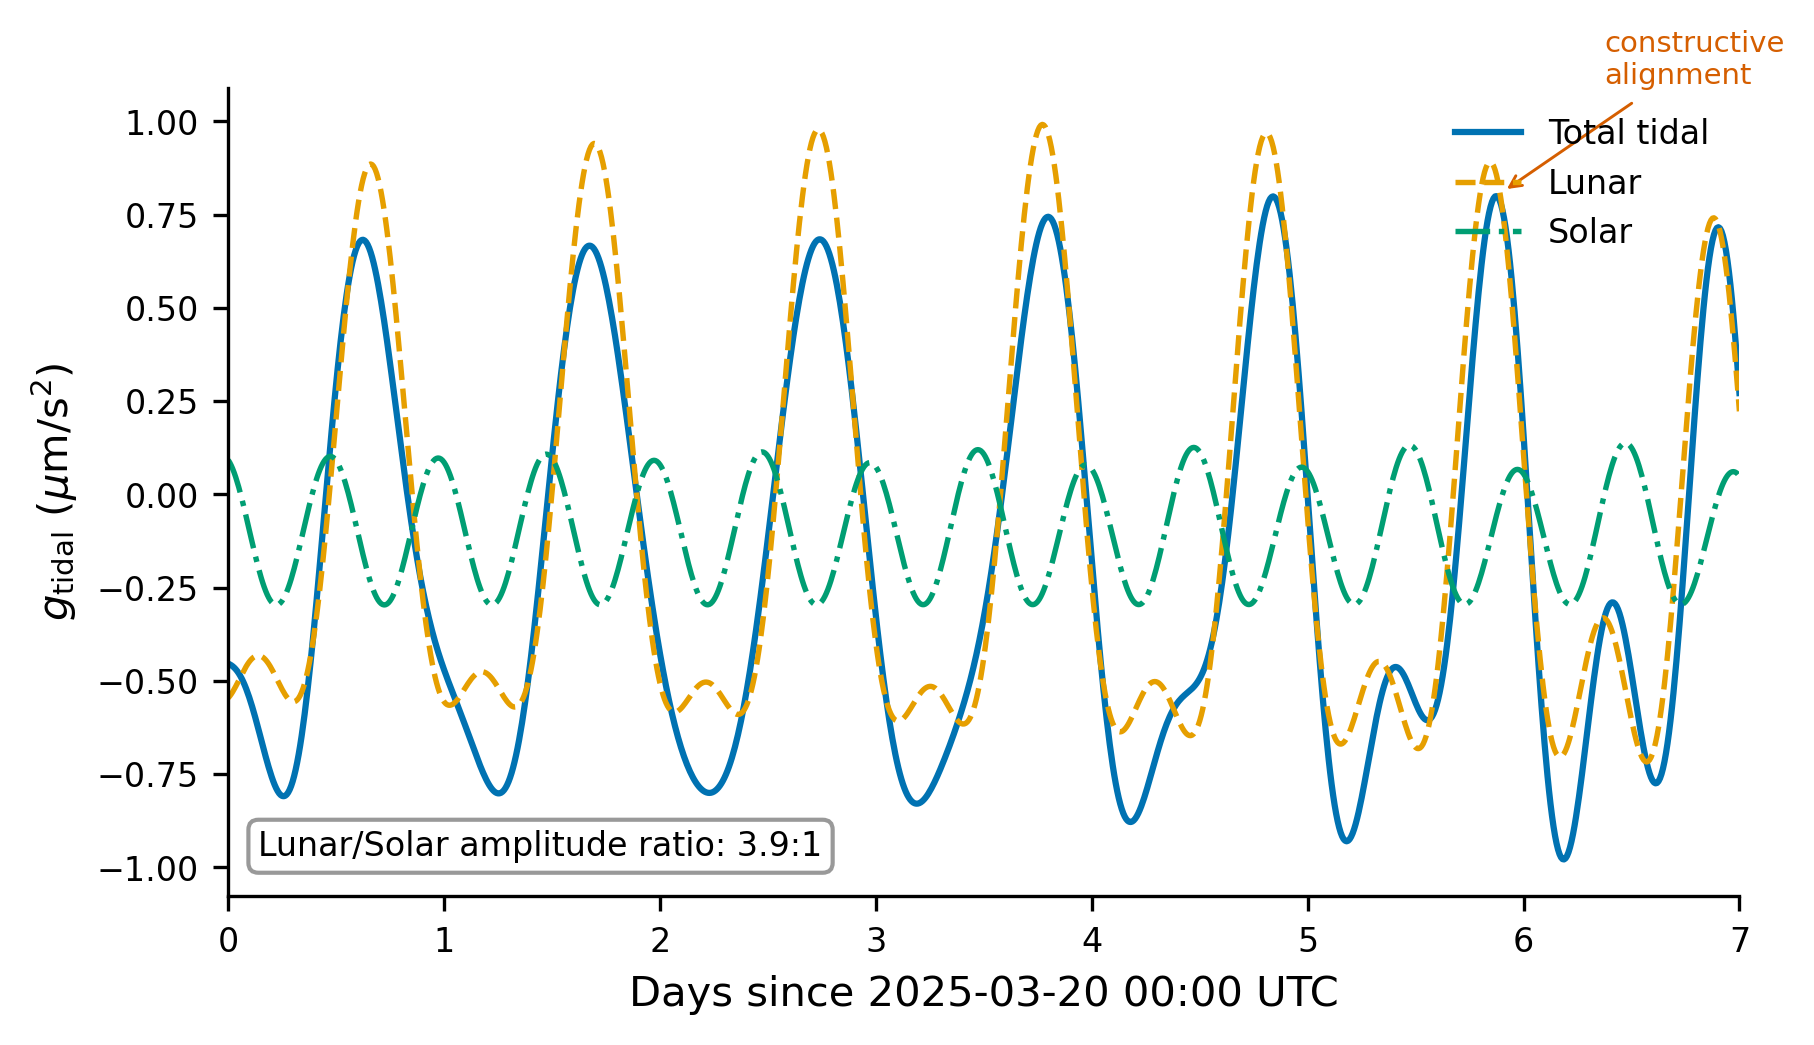
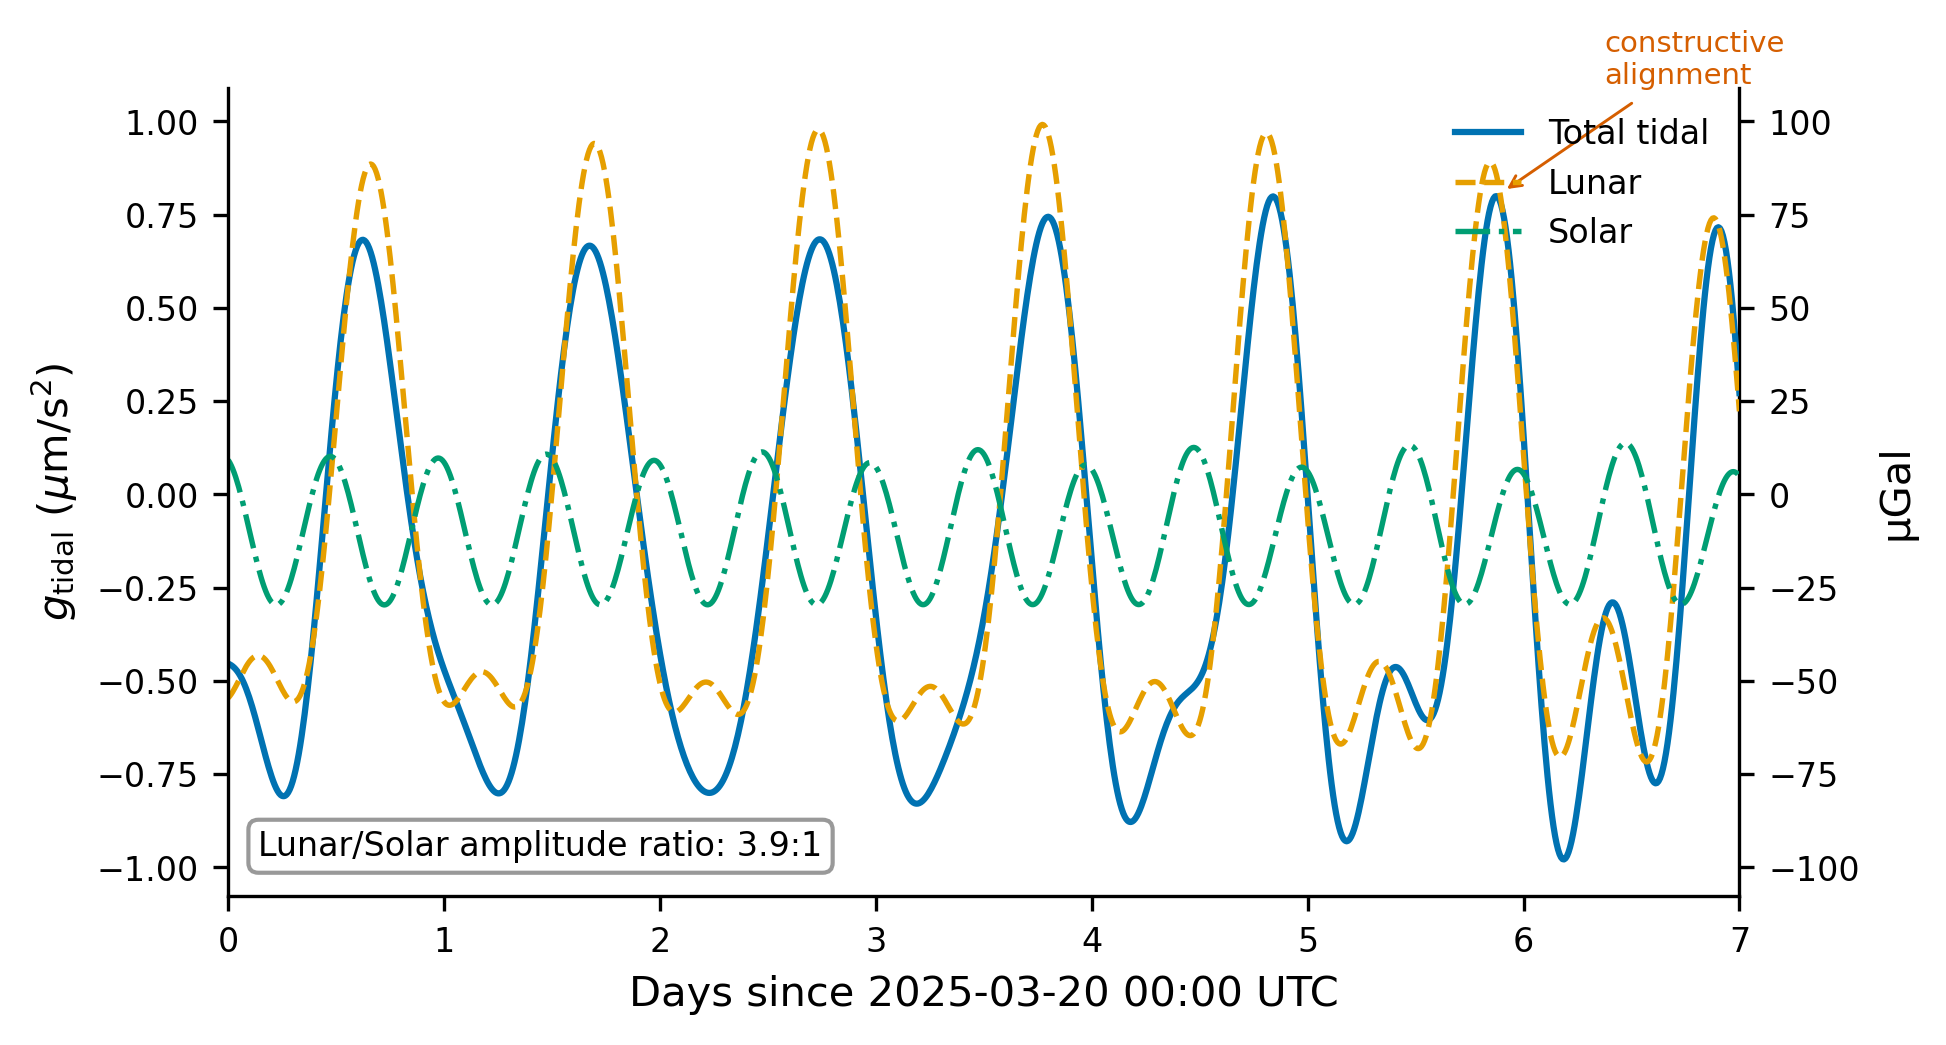
Add dual-axis labels to all gravity figures
Every gravity axis now displays both SI and Gal-family units via a
secondary axis (e.g., µm/s² on left, µGal on right). Adds
add_dual_axis() helper to style.py and applies it to all 10 figure
scripts that plot gravity data. Regenerated all PNGs.

diff --git a/doc/figures/style.py b/doc/figures/style.py
@@ -39,3 +39,47 @@ def apply_style():
         'ytick.major.width': 0.8,
         'figure.figsize': (6, 3.5),
     })
+
+
+# Dual-unit conversion table: primary_unit -> (dual_label, factor)
+# where dual_value = primary_value * factor
+_DUAL_UNITS = {
+    'm/s²':  ('Gal',    100),
+    'µm/s²': ('µGal',   100),
+    'mGal':  ('µm/s²',  10),
+    'µGal':  ('nm/s²',  10),
+    'nGal':  ('nm/s²',  0.01),
+}
+
+
+def add_dual_axis(ax, primary_unit, direction='y'):
+    """Add a secondary axis showing the equivalent gravity unit.
+
+    Parameters
+    ----------
+    ax : matplotlib.axes.Axes
+        The axes object that already has the primary unit.
+    primary_unit : str
+        One of 'm/s²', 'µm/s²', 'mGal', 'µGal', 'nGal'.
+    direction : str
+        'y' adds a right-hand axis; 'x' adds a top axis.
+    """
+    dual_label, factor = _DUAL_UNITS[primary_unit]
+
+    if direction == 'y':
+        sec = ax.secondary_yaxis(
+            'right',
+            functions=(lambda v: v * factor, lambda v: v / factor),
+        )
+        sec.set_ylabel(dual_label)
+        sec.spines['right'].set_visible(True)
+    else:
+        sec = ax.secondary_xaxis(
+            'top',
+            functions=(lambda v: v * factor, lambda v: v / factor),
+        )
+        sec.set_xlabel(dual_label)
+        sec.spines['top'].set_visible(True)
+
+    sec.tick_params(labelsize=8)
+    return sec

diff --git a/doc/figures/fig05_free_air.py b/doc/figures/fig05_free_air.py
@@ -14,7 +14,7 @@ import matplotlib.pyplot as plt
 
 import pytheas
 from pytheas import A_GRS80, F_GRS80, OMEGA, GM_E, B_GRS80
-from style import apply_style, COLORS
+from style import apply_style, COLORS, add_dual_axis
 
 apply_style()
 
@@ -82,6 +82,9 @@ ax_inset.annotate(f"{val_1km:.1f} $\\mu$Gal\nat 1 km",
                   fontsize=7, color=COLORS["navy"],
                   arrowprops=dict(arrowstyle="->", color=COLORS["navy"],
                                   lw=0.7, shrinkB=3))
+
+add_dual_axis(ax_main, 'mGal')
+add_dual_axis(ax_inset, 'µGal')
 
 fig.savefig("/home/xeal/dev/pytheas/doc/figures/fig05_free_air.png")
 plt.close(fig)

diff --git a/doc/figures/fig11_rigid_vs_elastic.py b/doc/figures/fig11_rigid_vs_elastic.py
@@ -20,7 +20,7 @@ from pytheas import (
     geodetic_to_ecef, moon_position_ecef, sun_position_ecef,
     tidal_acceleration, enu_basis, compute_timeseries,
 )
-from style import apply_style, COLORS
+from style import apply_style, COLORS, add_dual_axis
 
 apply_style()
 
@@ -82,6 +82,8 @@ ax.set_ylabel(r"Total tidal $g_z$ ($\mu$m/s$^2$)")
 ax.legend(loc="upper right", frameon=False)
 ax.set_xlim(0, 48)
 ax.axhline(0, color="grey", linewidth=0.4, linestyle="-")
+
+add_dual_axis(ax, 'µm/s²')
 
 fig.savefig("/home/xeal/dev/pytheas/doc/figures/fig11_rigid_vs_elastic.png")
 plt.close(fig)

diff --git a/doc/figures/fig13_error_budget.py b/doc/figures/fig13_error_budget.py
@@ -12,7 +12,7 @@ sys.path.insert(0, "/home/xeal/dev/pytheas")
 import numpy as np
 import matplotlib.pyplot as plt
 from matplotlib.patches import Patch
-from style import apply_style, COLORS
+from style import apply_style, COLORS, add_dual_axis
 
 apply_style()
 
@@ -80,6 +80,8 @@ ax.text(0.98, 0.98,
         style="italic", color="0.4",
         bbox=dict(boxstyle="round,pad=0.3", facecolor="0.95",
                   edgecolor="0.8", linewidth=0.5))
+
+add_dual_axis(ax, 'nGal', direction='x')
 
 fig.savefig("/home/xeal/dev/pytheas/doc/figures/fig13_error_budget.png")
 plt.close(fig)

diff --git a/doc/figures/fig06_lunar_distance_tides.py b/doc/figures/fig06_lunar_distance_tides.py
@@ -15,7 +15,7 @@ import numpy as np
 from datetime import datetime, timedelta
 import matplotlib.pyplot as plt
 import matplotlib.dates as mdates
-from style import apply_style, COLORS
+from style import apply_style, COLORS, add_dual_axis
 
 apply_style()
 
@@ -91,6 +91,8 @@ fig.autofmt_xdate(rotation=30, ha='right')
 # Thousands separator on y-axis of panel (a)
 ax1.yaxis.set_major_formatter(plt.FuncFormatter(
     lambda x, _: f"{x:,.0f}"))
+
+add_dual_axis(ax2, 'µm/s²')
 
 plt.savefig("/home/xeal/dev/pytheas/doc/figures/fig06_lunar_distance_tides.png")
 plt.close()

diff --git a/doc/figures/fig10_exact_vs_approx.py b/doc/figures/fig10_exact_vs_approx.py
@@ -20,7 +20,7 @@ from pytheas import (
     GM_MOON, geodetic_to_ecef, moon_position_ecef,
     tidal_acceleration, enu_basis,
 )
-from style import apply_style, COLORS
+from style import apply_style, COLORS, add_dual_axis
 
 apply_style()
 
@@ -129,6 +129,9 @@ ax_bot.text(0.02, 0.92, r"$\mathbf{(b)}$", transform=ax_bot.transAxes,
             fontsize=10, fontweight="bold", va="top")
 
 ax_bot.set_xlim(0, 24)
+
+add_dual_axis(ax_top, 'µm/s²')
+add_dual_axis(ax_bot, 'nGal')
 
 fig.savefig("/home/xeal/dev/pytheas/doc/figures/fig10_exact_vs_approx.png")
 plt.close(fig)

diff --git a/doc/figures/fig04_gravity_vs_latitude.py b/doc/figures/fig04_gravity_vs_latitude.py
@@ -15,7 +15,7 @@ import numpy as np
 import matplotlib.pyplot as plt
 
 import pytheas
-from style import apply_style, COLORS
+from style import apply_style, COLORS, add_dual_axis
 
 apply_style()
 
@@ -67,6 +67,8 @@ ax.annotate(f"{pole_grs:.4f}",
             fontsize=7.5, color=COLORS["navy"],
             arrowprops=dict(arrowstyle="-", color=COLORS["navy"],
                             lw=0.6, shrinkB=2))
+
+add_dual_axis(ax, 'm/s²')
 
 fig.savefig("/home/xeal/dev/pytheas/doc/figures/fig04_gravity_vs_latitude.png")
 plt.close(fig)

diff --git a/doc/figures/fig14_gr_corrections.py b/doc/figures/fig14_gr_corrections.py
@@ -13,7 +13,7 @@ sys.path.insert(0, "/home/xeal/dev/pytheas")
 import numpy as np
 import matplotlib.pyplot as plt
 from matplotlib.patches import Patch
-from style import apply_style, COLORS
+from style import apply_style, COLORS, add_dual_axis
 
 apply_style()
 
@@ -113,6 +113,8 @@ legend_elements = [
 ]
 ax.legend(handles=legend_elements, loc="lower right", frameon=False,
           fontsize=7.5)
+
+add_dual_axis(ax, 'nGal', direction='x')
 
 fig.savefig("/home/xeal/dev/pytheas/doc/figures/fig14_gr_corrections.png")
 plt.close(fig)

diff --git a/doc/figures/fig08_moon_vs_sun.py b/doc/figures/fig08_moon_vs_sun.py
@@ -14,7 +14,7 @@ import matplotlib.pyplot as plt
 from datetime import datetime, timedelta
 
 import pytheas
-from style import apply_style, COLORS
+from style import apply_style, COLORS, add_dual_axis
 
 apply_style()
 
@@ -79,6 +79,8 @@ if len(maxima) >= 2:
                 arrowprops=dict(arrowstyle="->", color=COLORS["red"],
                                 lw=0.7, shrinkB=3),
                 ha="left")
+
+add_dual_axis(ax, 'µm/s²')
 
 fig.savefig("/home/xeal/dev/pytheas/doc/figures/fig08_moon_vs_sun.png")
 plt.close(fig)

diff --git a/doc/figures/fig12_anatomy.py b/doc/figures/fig12_anatomy.py
@@ -17,7 +17,7 @@ from datetime import datetime, timedelta
 
 import pytheas
 from pytheas import compute_timeseries
-from style import apply_style, COLORS
+from style import apply_style, COLORS, add_dual_axis
 
 apply_style()
 
@@ -85,6 +85,10 @@ ax_c.text(0.98, 0.92, f"peak-to-peak: {pp_sun:.1f} $\\mu$m/s$^2$",
           color=COLORS["green"])
 
 ax_c.set_xlim(0, 48)
+
+add_dual_axis(ax_a, 'm/s²')
+add_dual_axis(ax_b, 'µm/s²')
+add_dual_axis(ax_c, 'µm/s²')
 
 # --- Bottom annotation ---
 fig.text(0.5, 0.01,

diff --git a/doc/figures/fig01_g_timeseries.py b/doc/figures/fig01_g_timeseries.py
@@ -16,7 +16,7 @@ import matplotlib.pyplot as plt
 from datetime import datetime, timedelta
 
 import pytheas
-from style import apply_style, COLORS
+from style import apply_style, COLORS, add_dual_axis
 
 apply_style()
 
@@ -85,6 +85,9 @@ if len(maxima) >= 2:
     )
 
 ax_bot.set_xlim(0, 48)
+
+add_dual_axis(ax_top, 'm/s²')
+add_dual_axis(ax_bot, 'µm/s²')
 
 fig.savefig("/home/xeal/dev/pytheas/doc/figures/fig01_g_timeseries.png")
 plt.close(fig)
